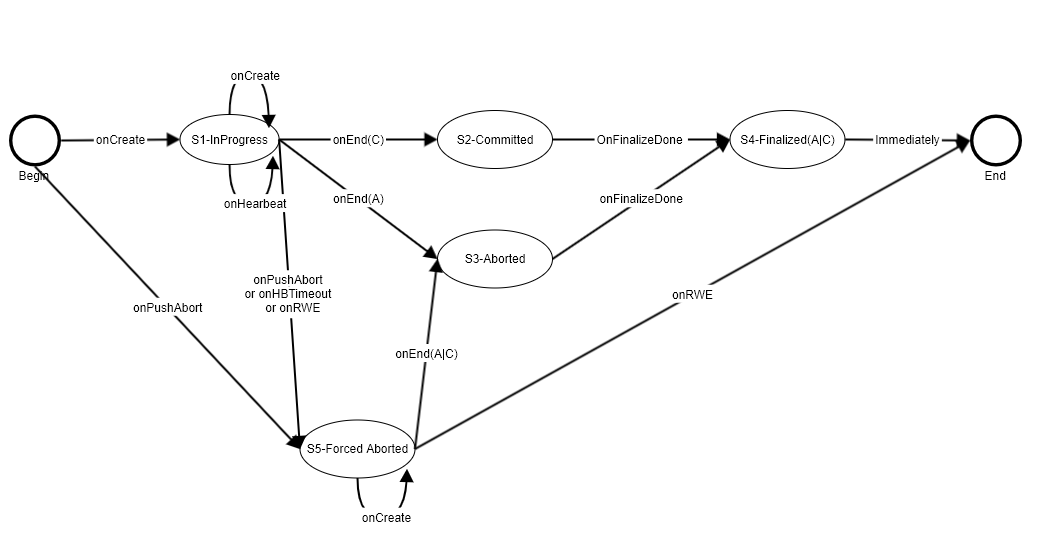
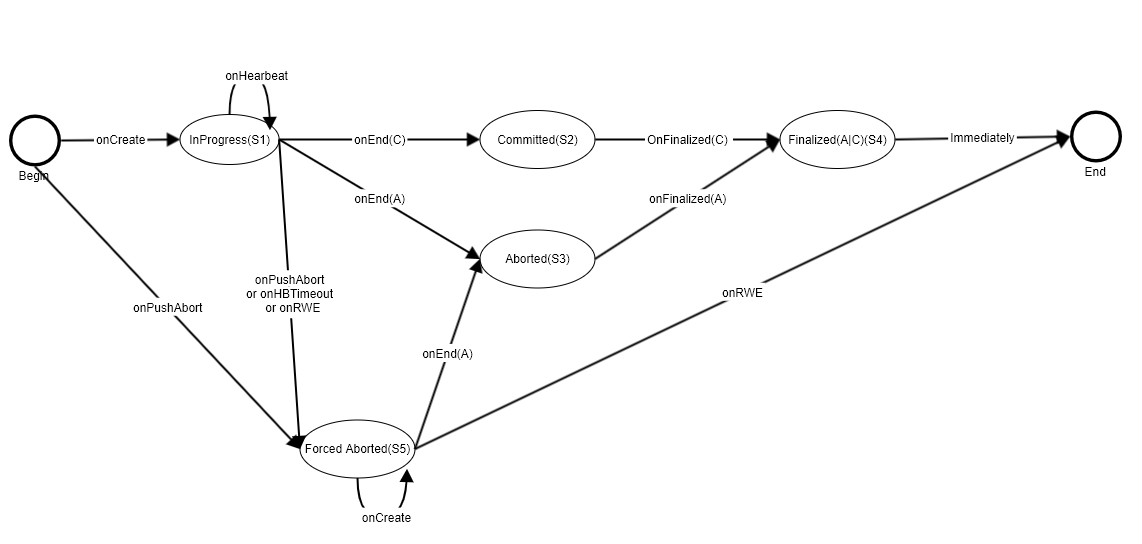
Doc - detailed TR states transition maps

diff --git a/docs/K23SI-Detailed-States.md b/docs/K23SI-Detailed-States.md
@@ -18,11 +18,11 @@ This document will describe these states and transition in following order:
 There are only 5 Transaction states, as in the TxnStates graph below described in [K23SI design doc](./K2-3SI-TXN.md).
 ![TxnStates](./images/TxnStates.png)
 
-1) `InProgress`(S1)   - transaction is created, in progress.
-2) `Committed`(S2)   - transaction is commited
-3) `Aborted`(S3)   - transaction is aborted
-4) `Finalized`(S4)   - transaction, after comit/aborted, complete finalization and transaction record is removed from memory.
-5) `ForcedAborted`(S5)   - transaction, for one of three different reasons, is forced to be aborted, which is different from S3 in the case that it may never have complete write-set information to go through a proper finalization process. 
+1) `InProgress(S1)`   - transaction is created, in progress.
+2) `Committed(S2)`   - transaction is commited
+3) `Aborted(S3)`   - transaction is aborted
+4) `Finalized(S4)`  - transaction, after comit/aborted, complete finalization and transaction record is removed from memory.
+5) `ForcedAborted(S5)`   - transaction, for one of three different reasons, is forced to be aborted, which is different from S3 in the case that it may never have complete write-set information to go through a proper finalization process. 
 
 In Write-Ahead-Log(WAL), For Transaction Record, as truth authority for a transaction state, it have exacly above 5 persistable states, appearing .
 
@@ -55,127 +55,80 @@ For a transaction, TR (and MTR) are persisted normally togeter with data (SKV re
 <br/><br/>
 
 # 3. In memory Transaction Record(TR) states and transition map at TRH(Transaction Record Holder)
-With async peristence request, all 5 above persisted state for a TR, there is a in momory state that persistence is requested and not yet complete, i.e. Persistence In Progress (PIP) states. We give a give them near Sx.9 code to corresponding persisted state.     
+## 3. 1 Extra In memory Transaction Record States, Persistence In Progress(PIP) states 
+With async peristence request, for all 5 above persisted states of a TR, there is a in momory state when persistence is requested and not yet complete, i.e. Persistence In Progress (PIP) states. We give a give them near Sx.9 code to corresponding persisted state. The transition between a PIP state to its persisted state (e.g.  `InProgressPIP`(S0.9) and `InProgress`(S1)) is triggerred when persistence asyn call succeeded.
 1) `InProgressPIP`(S0.9) - before `InProgress`(S1)   
 2) `CommittedPIP`(S1.9) - before `Committed`(S2)   
 3) `AbortedPIP`(S2.9) - before `Aborted`(S3)   
 4) `FinalizedPIP`(S3.9) - before `Finalized`(S4), actually `FinalizedPIP`(S3.9) is last in momory TR state as `Finalized`(S4) is only a peresited state never exists in memory.
 5) `ForcedAbortedPIP`(S4.9) - before `ForcedAborted`(S5) 
-## 3. 1 Transaction Record States and transition - basic cases
 <br/>
 
-### Table 3-1-1 - Transaction Record States <I>Typical transaction life cycle (committed)</I>
+All above 5 PIP states and their persisted states, except `Finalized`(S4), totaling 9 states, compose full set of in memory states. 
 
-| Stages                    | Triggering Action                    | In Memory State(s)                        | WAL Last Persisted State | Triggered (Async) Action                                |
-|---------------------------|--------------------------------------|-------------------------------------------|--------------------------|---------------------------------------------------------|
-| 0 Starting Transaction    | Client Starts a TXN with first write | T0(Created <i>(NP)</i>) -> T0.9(InProgressPIP)| N/A                  | To persist TR in state T1() state into WAL              |
-| 1. Transaction becomes InProgress| T1(InProgress) TR persisted          | T0.9(InProgressPIP) -> T1(InProgress)     | N/A                      | None                                                    |
-| 1.9 Commmiting transaction| Commmit transaction requested        | T1(InProgress) -> T1.9(CommitPIP)         | T1(InProgress)           | To persist TR in state T2(Committed) state into WAL     |
-| 2  Committed & finalizing | T2(Committed) TR persisted           | T1.9(CommitPIP) -> T2 (Committed)         | T2(Committed)            | Send finalizing requestes to participant partitions     |
-| 2.9 Finalized & Deleting  | All finalizing requests succeed      | T2 (Committed)  ->T2.9(CommitDeletePIP)   | T2(Committed)            | To persist TR in state T3(Committed&Deleted) state into WAL|
-| 3  (Committed)Deleted     | T3(Committed&Deleted TR persisted    | T2.9(CommitDeletePIP) -> {DELETED}        | T3(Committed&Deleted)    | None                                                    |
+Async perisistence request may fail as well, and when it fails(time out etc.), a transaction state may transit to other in memory state instead of its corresponding persisted state. Detailed discussion for such persistence failure will be discussed below
+## 3. 2 In memory Transaction Record States transition - basic cases
 <br/>
 
-Note: PIP stands for Persistence in Progress. NP stands for Non-Persistentable.
+### <I>Typical Committed transaction in memory state transitions</I>
+![DetailedTRState1-CommonCommit](./images/DetailedTRState1-CommonCommit.png)
+### <I>Typical Aborted transaction in memory state transitions</I>
+![DetailedTRState2-CommonAbort](./images/DetailedTRState2-CommonAbort.png)
 
+NOTE:
+<br/>
+- Persistence request can be for different state, `OnPersisted(I)` is for `InProgress` record got persisted successfully. Similarly, `OnPersisted(C)` for that of `Committed`, `OnPersisted(A)` for that of `Aborted`. 
+- Transition between S1-> S1.9 (in commit case) or S1->S2.9 (in Abort case) is triggerred by client `End(Commit)` or `End(Abort)` request.
+- Once transaction is in `Committed(S2)`, Finalizing process, which is sending finalization request(s) to all participant partition(s), is triggered. Such request in this commit case is for commiting the Write-Intent(s). While for abort case, it will be for aborting the Write-Intent(s). Upon all requests sucessfully complete, the transction enters `FinalizedPIP` state, which is also have flag indicating it is for Committed case `FinalizedPIP(C)` or for Aborted case `FinalizedPIP(A)`.
 
-<br/><br/>
-
-### Table 3-1-2 - Transaction Record States <I>Typical transaction life cycle (aborted)</I>
-
-| Stages                    | Triggering Action                    | In Memory State(s)                        | WAL Last Persisted State | Triggered (Async) Action                                |
-|---------------------------|--------------------------------------|-------------------------------------------|--------------------------|---------------------------------------------------------|
-| 0 Starting Transaction    | Client Starts a TXN with first write | T0(Created <i>(NP)</i>) -> T0.9(InProgressPIP)| N/A                  | To persist TR in state T1() state into WAL              |
-| 1. Transaction In Progress|T1.0(InProgress) TR persisted         | T0.9(InProgressPIP) -> T1(InProgress)     | N/A                      | None                                                    |
-| 3.9 aborting transaction  |abort transaction requested           | T1(InProgress) -> T3.9(AbortPIP)          | T1(InProgress)           | To persist TR in state T4(Aborted) state into WAL       |
-| 4. Aborted & finalizing   |T4(Aborted) TR persisted              | T3.9(AbortPIP) -> T4 (Aborted)            | T4(Aborted)              | Send finalizing requestes to participant partitions     |
-| 4.9 Finalized & Deleting  |All finalizing requests succeed       | T4 (Aborted)  ->T4.9(AbortDeletePIP)      | T4(Aborted)              | To persist TR in state T5(Aborted&Deleted) state into WAL |
-| 5 (Aborted)Deleted        |T5(Aborted&Deleted) TR persisted      | T4.9(AbortDeletePIP) -> {DELETED}         | T5(Aborted&Deleted)      | None                                                    |
+## 3.3 `ForcedAborted(S5)` cases when `Push` operation is not involved.
+`ForcedAborted` is a state can be transited into by three reasons, inlcluding `PushAbort`, `Transaction Heartbeat Timeout(HBTimeout)`, `Retention Window End(RWE)`. `Push` is a important and relative complex operation , which will be discussed in next section 3.4. Following are states change triggered by other two reasons. 
+### <I>ForcedAborted transaction by HBTimeout and TWE in memory state transitions</I>
+![DetailedTRState3-HBTimeoutRWE](./images/DetailedTRState3-HBTimeoutRWE.png)                                                  |
 <br/>
 
-Note, Normal Committed state record T2 and Aborted state T2 are persisted together with transaction write-set, which are the Keys it wrote and need to send finalization requests. 
+Note:
+- ForcedAbort to Abort or End
 
-<br/><br/>
+## 3.4 `Push` operation
 
-### Table 3-1-3 - Transaction Record State <I>Obsolete transaction life cycle (aborted)</I>
-An ongoing transaction could become obsolete due to possible two reasons: 1) the client didn't sent transaction heartbeat promptly (likely client crashed or network disconnected) 2) a transaction that is long running, runs out of retention window. Obsolete transaction is detected at TRH with timer based check operation and will be triggered into abortion. Once a transaction starts commit( get into state T1.9 CommitPIP), or starts abort (get into state 3.9 AbortPIP), it will not become obsolete any more regardless how long it need to finish its state transitions. 
-<br/>
-It is common that a transaction becomes obosolete when it is at state of T1 (InProgress), but it is also possible, though very unlikely, it become obsolete when it is at state of T0.9 InProgressPIP., e.g. the client crashed/lost heartbeat when TRH is still trying to persist TR of state T1(InProgress). 
+### <I>`PushAbort` state transitions</I>
+![DetailedTRState4-PushAbortTransitionCases](./images/DetailedTRState4-PushAbortTransitionCases.png) 
 
-| Stages                    | Triggering Action                    | In Memory State(s)                        | WAL Last Persisted State | Triggered (Async) Action                                |
-|---------------------------|--------------------------------------|-------------------------------------------|--------------------------|---------------------------------------------------------|
-| T1 (InProgress)           | Become Obsolete / request abort      |  T1(InProgress) -> T3.9(AbortPIP)         | T1(InProgress)           | To persist TR in state T4(Aborted) state into WAL       |
-| T0.9 (InProgressPIP)      | Become Obsolete / request abort      | T0.9 -> T3.9(AbortPIP)                    | None Or T1               | To persist TR in state T4(Aborted) state into WAL       |
-| T3.9 (AbortPIP)           | T1(InProgress) TR persisted          | NoChange T3.9                             | T1 or T4                 | None                                                    |
-<br/>
-
-The common case of becoming obsolete, where state transits from T1 -> T3.9, is actually already covered in above Table 2. The difference is that when the transaction become obsolete, it aborts without knowning all participant thus may not sending finalizing requests to all participant partitiona. The unlikely case, T0.9 -> T3.9, is new transition route. In implementation, we can also add obsolete flag/bit in such abort record indicating it is obsoletion triggered for debugging/explicitness. 
-
-<br/><br/>
-
-## 3. 2 Push operation triggered Transaction Record States and transition
-
-### Table 3-2-1 - Push Operation (being pushed) at Typical transaction life cycle triggered TR state change </I>
-
-| In Memory State Push requested/Current | Triggering Action       | After Push In memory State   | WAL Last Persisted State     | Triggered (Async) Action                             |
-|----------------------------------------|-------------------------|------------------------------|------------------------------|------------------------------------------------------|
-| T0.9 (InProgressPIP)                   | Push & Win              | NoChange T0.9 (InProgressPIP)| NONE or T1(InProgress)       | None                                                 |
-| T0.9 (InProgressPIP)                   | Push & Lose             | T0.9 -> T3.9 (AbortPIP)      | NONE or T1(InProgress)       | To persist TR in state T4(Aborted) state into WAL    |
-| T0.9 (InProgressPIP) & Push lost(T3.9) | T1(InProgress) Persisted| NoChange T3.9 (AbortPIP)     | T1(InProgress) or T4(Aborted)| None                                                 |
-| T0.9 (InProgressPIP) & Push lost(T3.9) | T4(Aborted) Persisted   | T3.9 -> T4(Aborted)          | T4(Aborted)                  | Send finalizing requestes to participant partitions  |
-| T1 (InProgress)                        | Push & Win              | NoChange T1 (InProgress)     | T1(InProgress)               | None                                                 |
-| T1 (InProgress)                        | Push & Lose             | T1 -> T3.9 (AbortPIP)        | T1(InProgress)               | To persist TR in state T4(Aborted) state into WAL    |
-| T1.9 (CommitPIP)                       | Push & Win              | NoChange T1.9 (CommitPIP)    | T1 or T2                     | None                                                 |  
-| T2 (Committed)                         | Push & Win              | NoChange T2 (Committed)      | T2                           | None                                                 |
-| T2.9(CommitDeletePIP)                  | Push & Win              | NoChange T2.9                | T2 or T3                     | None                                                 |
-| T3.9 (AbortPIP)                        | Push & Lose             | NoChange T3.9                | None, T1, T2, or T4          | None                                                 |
-| T4 (Aborted)                           | Push & Lose             | NoChange T4                  | T4                           | None                                                 |
-| T4.9 (AbortDeletePIP)                  | Push & Lose             | NoChange T4.9                | T4 or T5                     | None                                                 |
-<br/>
-
-<br/>
-
-### Table 3-2-2 - ForcedAbort State T9.9 - Push on a non-exist transation
 When a push operation gets to a TRH, the Transaction (record) may not exist in memory. The transaction may or may not exists in WAL either and even it does, there is no efficient way to find the transaction record from the WAL. Such situation could happen in a few uncommon cases, e.g. when client crashed (after started a transaction), the TRH after loose transaction heartbeat have to abort the transaction without completed finalization as TRH doesn't know other transaction participant partitions (to send finalizing request to), and if TRH reload, the transaction will not be in memory any more (as it is fully aborted and completed). If in this case, a push request comes from a partipant, we need to process it in following case. For the trasaction, we will recreate a Transaction Record in memory but in ForcedAbort state T9.9, and keep it in memory (up to retention window time). And for push operation, let the challenger win and incumbent is aborted already. Note, ForceAbort T9.9 is an in memory state, never persisted in WAL. (BTW, 9.9 is a strange number and means it is a strange state)
 
-<br/>
+### <I>Other `Push` triggered state transitions</I>
+![DetailedTRState5-OtherPushCases](./images/DetailedTRState5-OtherPushCases.png) 
 
-| In Memory State Push requested/Current | Triggering Action       | After Push In memory State    | WAL Last Persisted State     | Triggered (Async) Action                             |
-|----------------------------------------|-------------------------|-------------------------------|------------------------------|------------------------------------------------------|
-| {DELTED}                               | Push & Lose             | {DELETED}-> T9.9 (ForcedAbort)| NONE or T5(AbortDeleted)     | None                                                 |
-| T9.9 (ForceAbort)                      | Push & Lose             | NoChange T9.9                 | NONE or T5                   | None                                                 |
 <br/><br/>
 
-
-## 3. 3 Error handling in Transaction Record States and transition
-
-### Table 3-3-1 - Persistence Error
+## 3.5 Persistence Failure(PFailure)
+### <I>Persistence Failure(PFailure) triggered state transitions</I>
+![DetailedTRState6-PersistenceFailure](./images/DetailedTRState6-PersistenceFailure.png) 
 
 There are two situations that persistence error we need to handle. Persistence failures are retryable, but should be within a configuable max allowance amount of times (e.g. 10 times) for system wide catastrophic error. The first situation is the retry times exceeds the max allowance. If retry succeeded, the persistence error can't be fully masked as the previous persistence requests may returned out of order. The second situation is to handle these out of order retried result. 
-
 <br/>
-
-For first situation, when retry exceeds the max allowance, following Table 5.1 describe the state transition. Note, we only consider configuable max allowance of retry when we try to persist T1(InProgress) T2 (Committed), in other 3 type of persisted record case, we ignore the failure and retry unlimited (with backoff).
-| Stages                    | Triggering Action                    | In Memory State(s)                        | WAL Last Persisted State  | Triggered (Async) Action                               |
-|---------------------------|--------------------------------------|-------------------------------------------|---------------------------|--------------------------------------------------------|
-| T0.9 (InProgressPIP)      | Persists(T1) error max out           |  T0.9(InProgress) -> T3.9(AbortPIP)       | None or T1(InProgress)    | To persist TR state T4(Aborted) into WAL               |
-| T1.9 (CommitPIP)          | Persists(T2) error max out           |  T1.9 -> T3.9(AbortPIP)                   | T1 or T2                  | To Perisit TR state T4(Aborted) into WAL               |
-| T2.9 (CommitDeletePIP)    | Persists(T3) error ignoring max out  |  No change T2.9                           | T2 or T3                  | None (continue exponetial backoff and retry)           |
-| T3.9 (AbortPIP)           | Persists(T4) error ignoring max out  |  No change T3.9                           | T1 or T4 (rarely T2)      | None (continue exponetial backoff and retry)           |
-| T4.9 (AbortDeletePIP)     | Persists(T5) error ignoring max out  |  No change T4.9                           | T4(Aborted) or T5         | None (continue exponetial backoff and retry)           |
-<br/>
-
 Note, when Persistes (T2) error at T1.9 state (CommitPIP) maxed out, we transit to T 3.9, we do not notify client commit failed till T4 is persisted sucessful as T2 may be persisted already. Also once transit happens, even if the T2 pesistence success response message comes back (in case of time out), we ignore that as well. 
 
 <br/>
-<br/>
 
-### Finalizing Error 
+## 3.6 Finalization Failure(FFailure)
+
+### <I>Finalization Failure(FFailure) triggered state transitions</I>
+![DetailedTRState7FinalizationFailure](./images/DetailedTRState7FinalizationFailure.png) 
+
+Note: Partial finalization optimization.
 Finalization process is a requests fan out process from TRH to mulitple participants, potentially likehood of one or a few participants may not response successfully in time. Theoretically, such error are mostly timeout error and/or retryable and once a transaction is in state 2 or 4, where it start to sending out finalization requests, its state will only move to 2.9 or 4.9 respectively when all requests are responded with success asynchronously later. So Finalizing error will be ignored. 
 
 But, in practice, when only one or just a minor few participants failed to finalizing, an optimization can be done is to record/persist (again) only these failed write-set subset keys(or key ranges), so, in case the TRH is reloaded, only these failed few partition(s) will be called to retry finalization.
 
-## 3. 4 Optimization cases in K2-3SI and its impact on Transaction Record States and transitiion - Distributed multiple steps transaction
+## 3. 7 Complete Transaction Record in memory States and transition
+### <I>Complete Transaction Record in memory state transitions</I>
+![DetailedTRState8-Complete](./images/DetailedTRState8-Complete.png) 
+<br/>
+
+
+## 3. 7 Optimization cases in K2-3SI and its impact on Transaction Record States and transitiion - Distributed multiple steps transaction
 ### Optimized case (where commit can be requested before all data is persisted)
 For a distributed transaction contains mulitple steps of write (and read) operations, one optimization is for client to move to next step when previous one is acknowledged by participant partitions (the write operation is kept in memory and in parallel asyn persistence of the change record is happening). Further more, the participant can directly notify the TRH on the complete of persistence later, where the TRH was notified with each intended write by client at the same time when it was issued to the participant. Then whole transaction could have higher parallelism (of persistence and operations) and less network message roundtrip. In such optimization case, it is possible that when client requests commit, not all write-set was successfully persisted.   
 
@@ -201,7 +154,7 @@ Table 6.2 - Special (optimized/quick) commit requested at state 0.9 (InProgressP
 | T1.8 Wait for ready           | last persistence notification local or remote |T1.8(CommitWait) ->T1.9(CommitPIP)| T1                   | To persist TR in state T2(Committed) state into WAL     |
 <br/>
 
-## 3. 5 Optimization cases in K2-3SI and its impact on Transaction Record States and transitiion - Non-Distributed transaction
+## 3. 8 Optimization cases in K2-3SI and its impact on Transaction Record States and transitiion - Non-Distributed transaction
 
 For non-distribued transaction (where there is only one partition is involved), the final write operation (the last operation for a multiple step transaction or only write operation for a single step transaction) will be combined with commit request (in happen commit case). 
 
